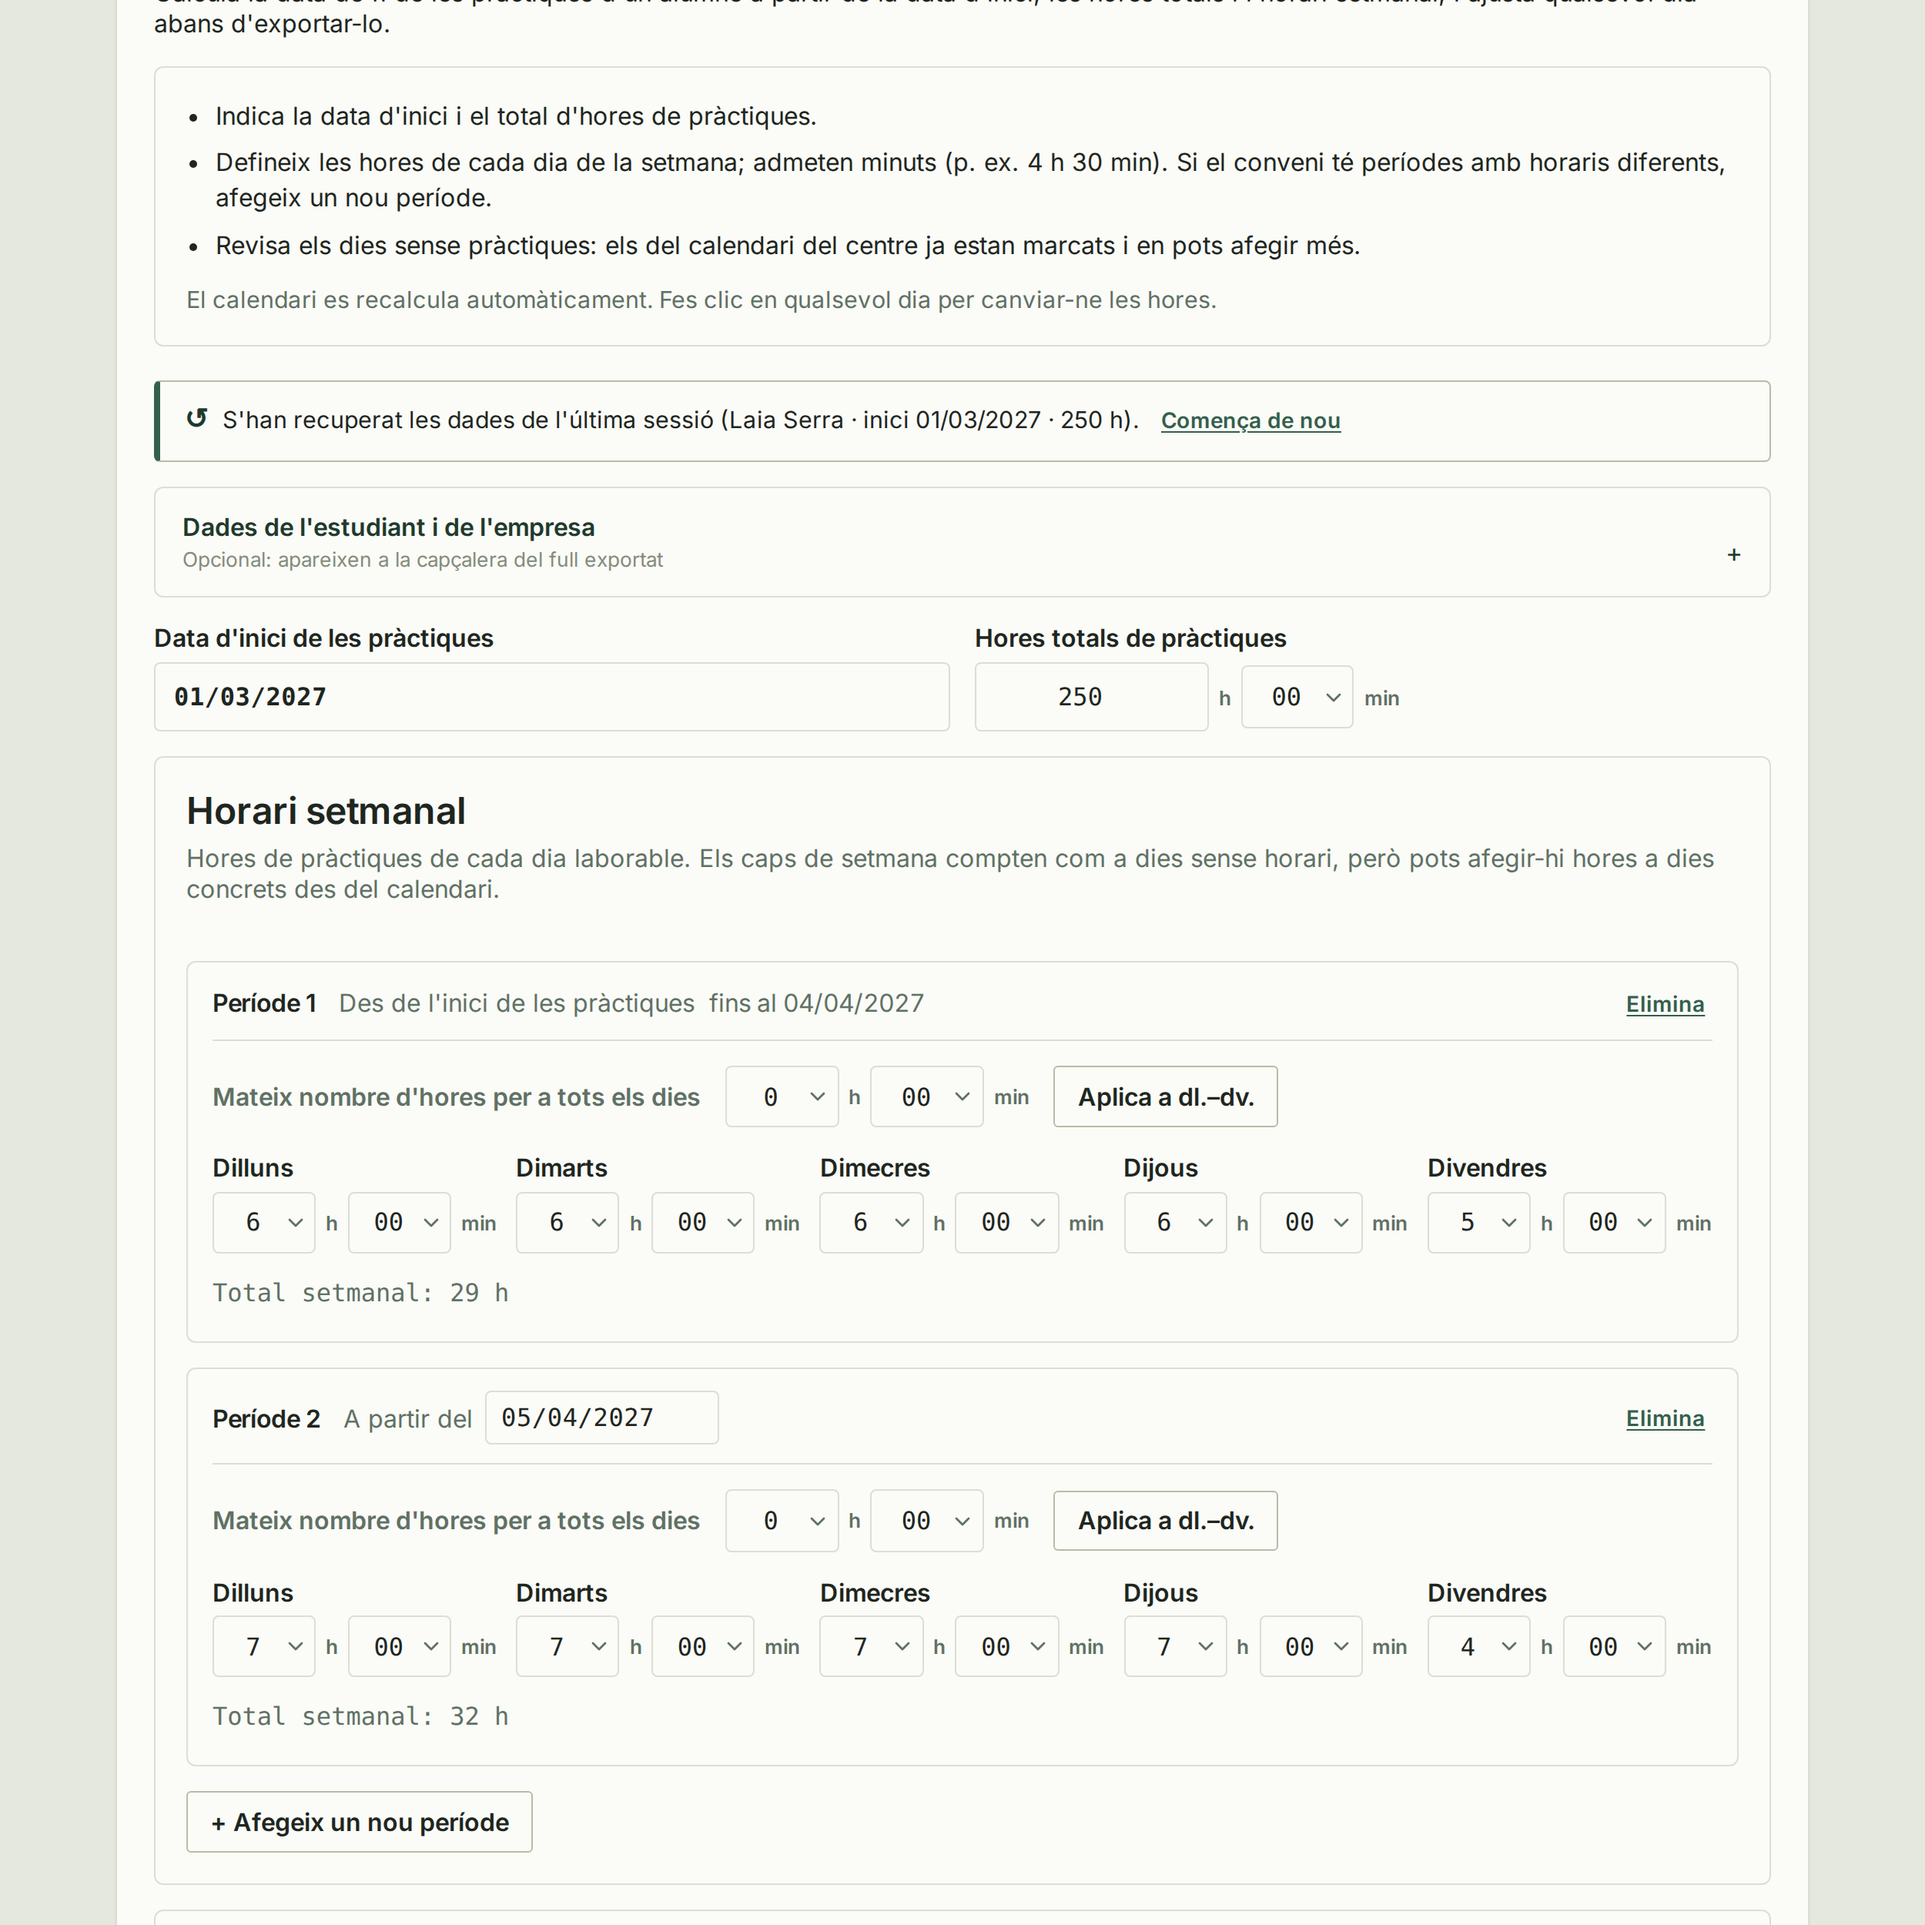
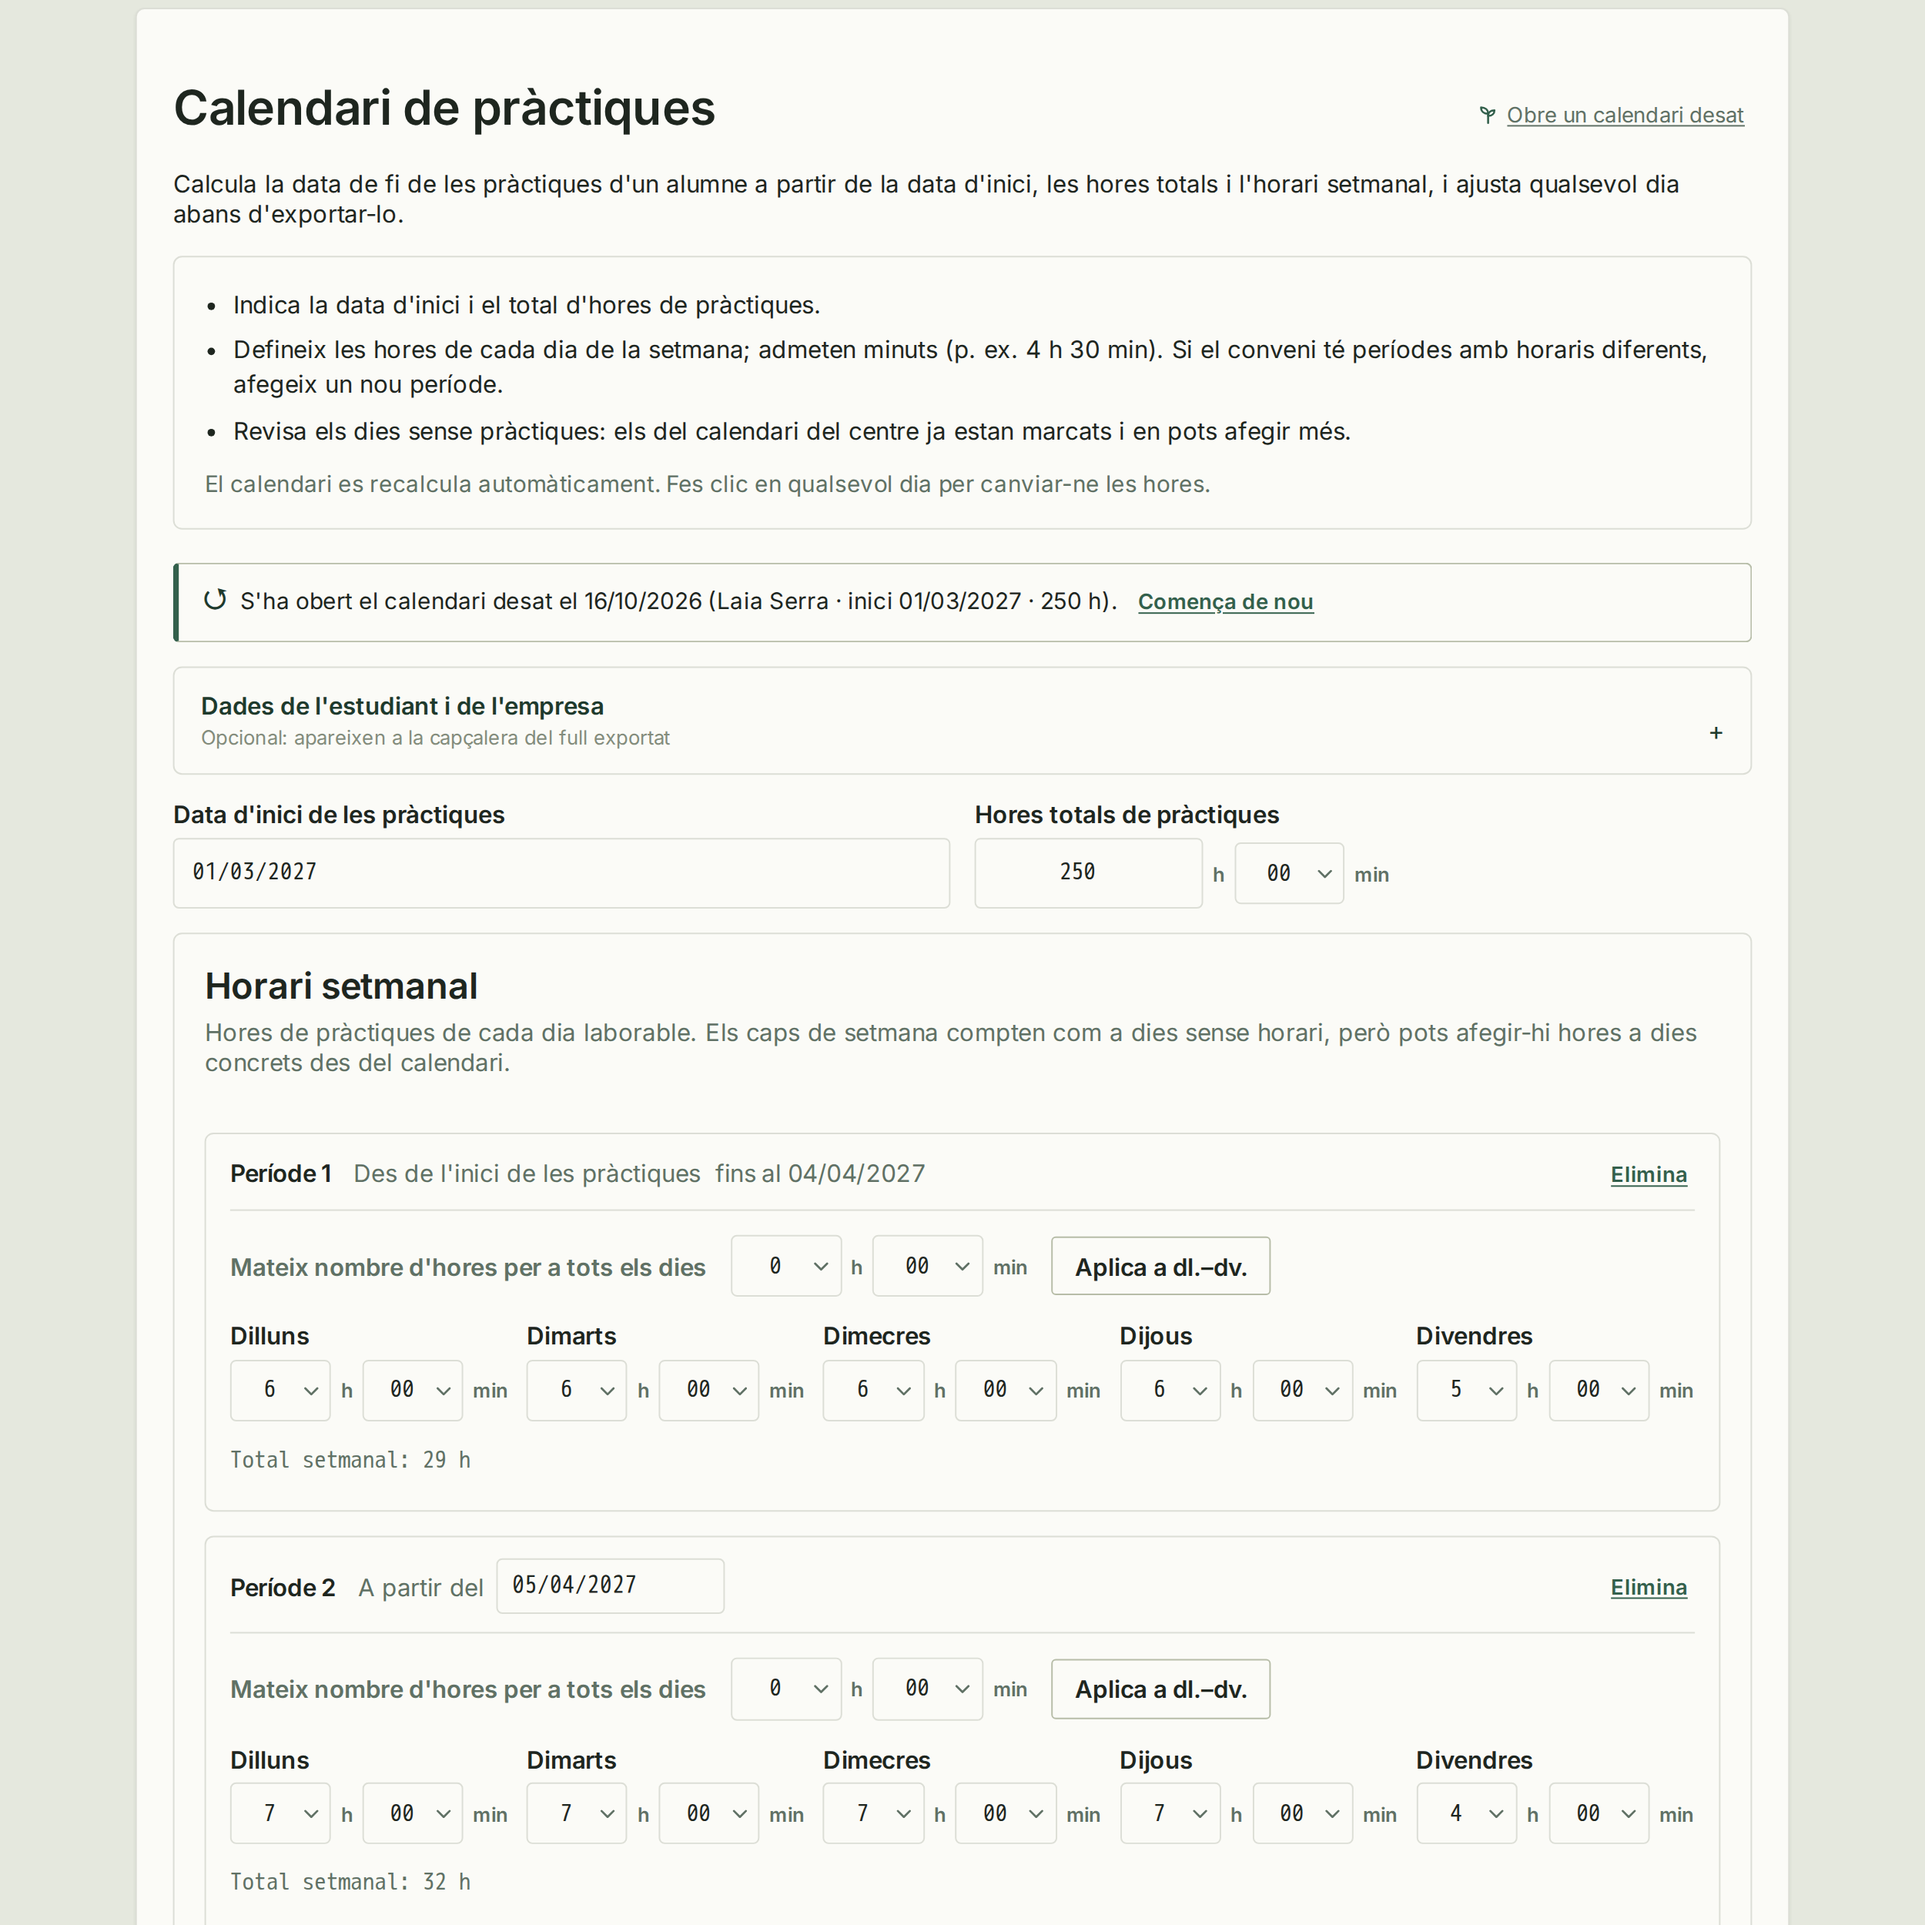
docs: show multi-day edits and reopening a saved calendar in the internship screenshots

diff --git a/README.md b/README.md
@@ -93,15 +93,15 @@ La secció `/practiques` és independent de la planificació de mòduls i calcul
 
 Indica la data d'inici, les hores totals (amb minuts) i les hores de cada dia de la setmana. Si el conveni té períodes amb horaris diferents (p. ex. jornada intensiva a l'estiu), afegeix un nou període i indica a partir de quin dia s'aplica. Opcionalment, afegeix les dades de l'estudiant i de l'empresa, que apareixen a la capçalera dels fitxers exportats (XLSX, HTML i PDF). El formulari es conserva al navegador entre visites.
 
-![Formulari del planificador d'hores de pràctiques](docs/screenshots/tempo-practiques-step-1-formulari.png)
+![Formulari del planificador d'hores de pràctiques obert des d'un calendari desat, amb l'enllaç «Obre un calendari desat»](docs/screenshots/tempo-practiques-step-1-formulari.png)
 
 ### 2. Revisa els dies sense pràctiques i el calendari
 
 Els períodes del calendari del centre surten marcats i es poden desmarcar si no afecten l'empresa (p. ex. pràctiques durant les vacances escolars). També s'hi poden afegir altres dies, com festius locals de l'empresa o festius posteriors a les classes. Si les pràctiques van més enllà dels dies no lectius configurats al calendari del centre, un avís en aquesta mateixa secció recorda afegir-hi els festius posteriors. El calendari es recalcula en directe i mostra la data de fi, les hores planificades i els dies amb pràctiques; el darrer dia només rep les hores que falten. Quan hi ha diversos períodes, el primer dia de cadascun queda marcat al calendari.
 
-![Dies sense pràctiques, calendari resultant amb la data de fi i botons de descàrrega en XLSX, HTML i PDF](docs/screenshots/tempo-practiques-step-2-calendari.png)
+![Dies sense pràctiques, calendari resultant amb la data de fi, botons de descàrrega en XLSX, HTML i PDF i l'avís que l'HTML es pot tornar a obrir](docs/screenshots/tempo-practiques-step-2-calendari.png)
 
-### 3. Ajusta les hores d'un dia
+### 3. Ajusta les hores d'un dia o de diversos dies
 
 En fer clic a qualsevol dia se'n poden canviar les hores, fins i tot posar-hi 0 o afegir-ne en un festiu o cap de setmana. Si es treuen hores, la data de fi s'endarrereix i el calendari afegeix sol els mesos necessaris.
 
@@ -109,7 +109,7 @@ Per canviar les hores de molts dies alhora (p. ex. del 20 d'octubre al 10 de nov
 
 A l'agost no es poden fer pràctiques, així que el calendari no passa mai del 31 de juliol del curs en què comencen. Si les hores no hi caben, l'aplicació avisa i mostra les hores que falten, que s'hauran de fer amb un nou conveni el curs vinent.
 
-![Editor de les hores d'un dia concret](docs/screenshots/tempo-practiques-step-3-editor-dia.png)
+![Canvi de les hores d'una setmana sencera triada amb Maj+clic, amb els dies afectats ressaltats al calendari](docs/screenshots/tempo-practiques-step-3-editor-dia.png)
 
 ### Full XLSX exportat
 

diff --git a/README.en.md b/README.en.md
@@ -93,15 +93,15 @@ The `/practiques` section is independent from module planning and works out when
 
 Enter the start date, total hours (minutes supported) and the hours for each weekday. If the agreement has periods with different schedules (e.g. shorter summer hours), add a new period and set the date it applies from. Optionally, add the student and company details shown in the header of the exported files (XLSX, HTML and PDF). The form is kept in the browser between visits.
 
-![Internship hours planner form](docs/screenshots/tempo-practiques-step-1-formulari.png)
+![Internship hours planner form opened from a saved calendar, with the "Obre un calendari desat" link](docs/screenshots/tempo-practiques-step-1-formulari.png)
 
 ### 2. Review Days Without Internship And The Calendar
 
 The school calendar's periods are pre-selected and can be unticked when they do not affect the company (e.g. an internship that runs through school holidays). Other days can be added too, such as the company's local holidays or holidays after classes end. If the internship runs past the non-teaching days configured in the school calendar, a warning in this same section reminds users to add the later holidays. The calendar recalculates live and shows the end date, planned hours and internship days; the last day only receives the hours still needed. When there are several periods, the first day of each one is marked on the calendar.
 
-![Days without internship, the resulting calendar with its end date and the XLSX, HTML and PDF download buttons](docs/screenshots/tempo-practiques-step-2-calendari.png)
+![Days without internship, the resulting calendar with its end date, the XLSX, HTML and PDF download buttons and the note that the HTML can be opened again](docs/screenshots/tempo-practiques-step-2-calendari.png)
 
-### 3. Adjust A Day's Hours
+### 3. Adjust The Hours Of One Or Several Days
 
 Clicking any day changes its hours, including setting it to 0 or adding hours on a holiday or weekend. Removing hours moves the end date later, and the calendar adds the months it needs on its own.
 
@@ -109,7 +109,7 @@ To change many days at once (e.g. from 20 October to 10 November), Shift+click t
 
 Internships cannot run in August, so the calendar never goes past 31 July of the school year it starts in. If the hours do not fit, the app warns and shows the hours still pending, which need a new agreement next school year.
 
-![Editor for a single day's hours](docs/screenshots/tempo-practiques-step-3-editor-dia.png)
+![Changing the hours of a whole week picked with Shift+click, with the affected days highlighted on the calendar](docs/screenshots/tempo-practiques-step-3-editor-dia.png)
 
 ### Exported XLSX
 

diff --git a/docs/screenshots/README.md b/docs/screenshots/README.md
@@ -19,9 +19,9 @@ The files in this folder document the two public tools. For the curriculum plann
 | `tempo-step-1-parallel.png` | Step 1: configure two parallel blocks | Supporting advanced-mode example |
 | `tempo-step-2-parallel.png` | Step 2: distribute RAs across parallel blocks | Supporting advanced-mode example |
 | `tempo-step-3-spreadsheet_2.png` | Result: secondary workbook view | Kept for detailed documentation |
-| `tempo-practiques-step-1-formulari.png` | Internship planner: start date, total hours and a weekly schedule split into two periods | Internship walkthrough |
-| `tempo-practiques-step-2-calendari.png` | Internship planner: days without internship, the resulting calendar and the XLSX, HTML and PDF download buttons | Internship walkthrough |
-| `tempo-practiques-step-3-editor-dia.png` | Internship planner: editing a single day's hours | Internship walkthrough |
+| `tempo-practiques-step-1-formulari.png` | Internship planner: a saved calendar just opened with «Obre un calendari desat» (start date, total hours and a weekly schedule split into two periods) | Internship walkthrough |
+| `tempo-practiques-step-2-calendari.png` | Internship planner: days without internship, the resulting calendar, the XLSX, HTML and PDF download buttons and the note on reopening the HTML | Internship walkthrough |
+| `tempo-practiques-step-3-editor-dia.png` | Internship planner: changing the hours of a range of days picked with Shift+click | Internship walkthrough |
 
 `step-3` describes the exported result, not a third screen in the application: the teacher interface itself has two steps.
 
